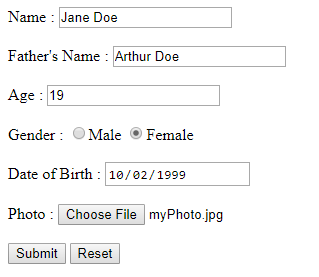
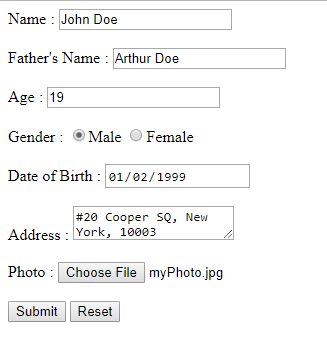
minor additions to form

diff --git a/PHP/23. A1 - Student Form/index.html b/PHP/23. A1 - Student Form/index.html
@@ -13,6 +13,7 @@
         <input type="radio" name="gender" value="female">Female
         <br><br>
         Date of Birth : <input type="date" name="dob"><br><br>
+        Address : <textarea name="address"></textarea><br><br>
         Photo : <input type="file" name="photo"><br><br>
         <input type="submit">
         <input type="reset">
